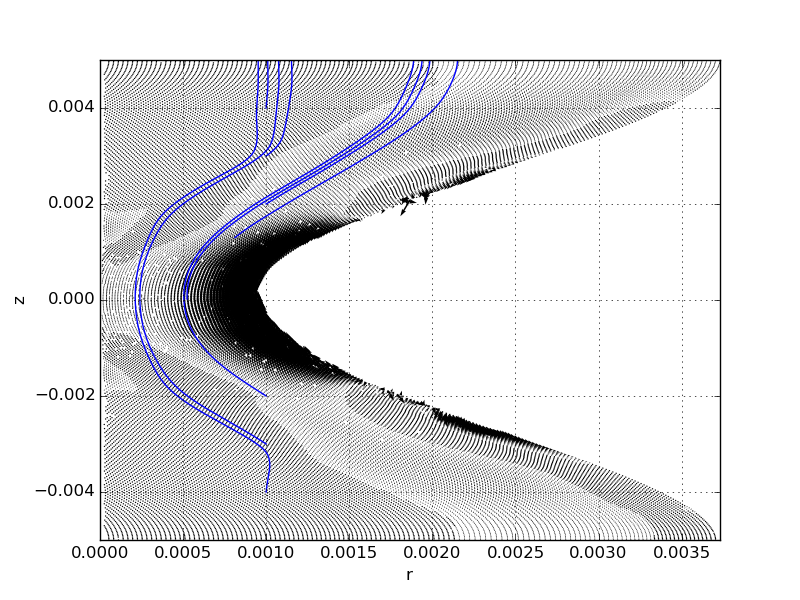
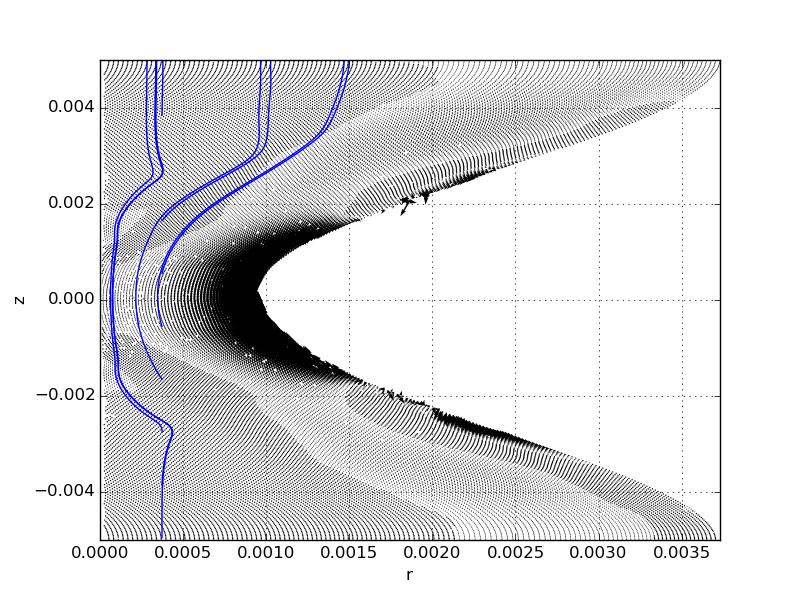
series

diff --git a/vis.py b/vis.py
@@ -26,7 +26,7 @@ def weight(x,y):
 # plt.ylim(ymin,ymax)
 # plt.show()
 
-def localAction(point, radius=0.0001):
+def localAction(point, radius=0.0001, iterations=0):
 
     r_distances=r-point[0]
     z_distances=z-point[1]
@@ -51,16 +51,26 @@ def localAction(point, radius=0.0001):
     # plt.ylim(point[1]-2*radius, point[1]+2*radius)
     # plt.show()
 
-    iterations=0
-
-    if(iterations>10):
+    if(iterations>30):
+        # print("Next!")
+        r_distances_inside=r_distances[indices_in_radius]
+        z_distances_inside=z_distances[indices_in_radius]
+        r_velocities_inside=vr[indices_in_radius]
+        z_velocities_inside=vz[indices_in_radius]
+        weights=weight(r_distances_inside, z_distances_inside)
+        weight_sum=np.sum(weights)
+        vr_interpolated=np.sum(weights*r_velocities_inside)/weight_sum
+        vz_interpolated=np.sum(weights*z_velocities_inside)/weight_sum
         return np.array([vr_interpolated, vz_interpolated]), radius
     if(number_points_inside_radius>8):
-        return localAction(point, radius*0.9)
+        # density = number_points_inside_radius/np.pi/radius**2
+        # radius=np.sqrt(density/8/np.pi)
         iterations+=1
+        # return localAction(point, radius)
+        return localAction(point, radius*0.9, iterations)
     elif(number_points_inside_radius<8):
-        return localAction(point, radius*1.055)
         iterations+=1
+        return localAction(point, radius*1.055, iterations)
     else:
         r_distances_inside=r_distances[indices_in_radius]
         z_distances_inside=z_distances[indices_in_radius]
@@ -121,38 +131,41 @@ vz = B4LINE[:,3]
 fig = plt.gcf()
 plt.quiver(r,z,vr,vz, label="Input data")
 
-StartingZ=np.linspace(min(z)*0.99,max(z)*0.99,100)
-StartingZ=np.vstack(((np.ones_like(StartingZ)*(max(r)-min(r))/100000+min(r)).T, StartingZ.T)).T
+StartingZ=np.linspace(min(z)*0.99,max(z)*0.99, 30)#max(z)*0.99,100)
+StartingZ=np.vstack(((np.ones_like(StartingZ)*(max(r)-min(r))/10+min(r)).T, StartingZ.T)).T
 
-def fieldline(points):
+def fieldline(point):
+    plt.plot(point[0], point[1], "go")
+    points=np.array([[point[0], point[1]]])
     print(points[-1])
     i=0
     while(points[-1,0] < max(r) and points[-1,0]>min(r) and points[-1,1]<max(z) and points[-1,1]>min(z)):
         i+=1
         # print(str(i) +"\t", end="")
         points=step_to_next_point(points)
+    plt.plot(points[-1,0], points[-1,1], "rx")
     plt.plot(points[:,0], points[:,1], "b-")
 #plt.scatter(r,z, label="Input data", alpha=0.05)
 #plt.scatter(r,z,
 #    label="Input data in circle", alpha=0.5)
-fieldline(np.array([[0.000812395, 0.00130208]]))
-# for linenumber in range(len(StartingZ)):
-#     Array=np.array([[StartingZ[linenumber,0], StartingZ[linenumber,1]]])
-#     fieldline(Array)
+# fieldline(np.array([0.000812395, 0.00130208]))
+for linenumber in range(len(StartingZ)):
+    point=np.array([StartingZ[linenumber,0], StartingZ[linenumber,1]])
+    fieldline(point)
 
-fieldline(np.array([[0.00052395, 0.0000208]]))
-# fieldline(np.array([[0.005, -0.003]]))
-fieldline(np.array([[0.001, 0.002]]))
-# fieldline(np.array([[0.001, 0.0002]]))
-# fieldline(np.array([[0.001, 0.0001]]))
-# fieldline(np.array([[0.001, 0.001]]))
-# fieldline(np.array([[0.001, -0.0001]]))
-fieldline(np.array([[0.001, 0.004]]))
-fieldline(np.array([[0.001, 0.003]]))
-fieldline(np.array([[0.001, -0.004]]))
-fieldline(np.array([[0.001, -0.005]]))
-fieldline(np.array([[0.001, -0.003]]))
-fieldline(np.array([[0.001, -0.002]]))
+# fieldline(np.array([0.00052395, 0.0000208]))
+# # fieldline(np.array([[0.005, -0.003]]))
+# fieldline(np.array([0.001, 0.002]))
+# # fieldline(np.array([[0.001, 0.0002]]))
+# # fieldline(np.array([[0.001, 0.0001]]))
+# # fieldline(np.array([[0.001, 0.001]]))
+# # fieldline(np.array([[0.001, -0.0001]]))
+# fieldline(np.array([0.001, 0.004]))
+# fieldline(np.array([0.001, 0.003]))
+# fieldline(np.array([0.001, -0.004]))
+# fieldline(np.array([0.001, -0.005]))
+# fieldline(np.array([0.001, -0.003]))
+# fieldline(np.array([0.001, -0.002]))
 # fieldline(np.array([[0.001, -0.001]]))
 plt.xlabel("r")
 plt.ylabel("z")
@@ -160,5 +173,5 @@ plt.grid()
 plt.legend()
 plt.xlim(min(r),max(r))
 plt.ylim(min(z),max(z))
-plt.savefig("line.png")
+plt.savefig("line3denser.png")
 plt.show()
